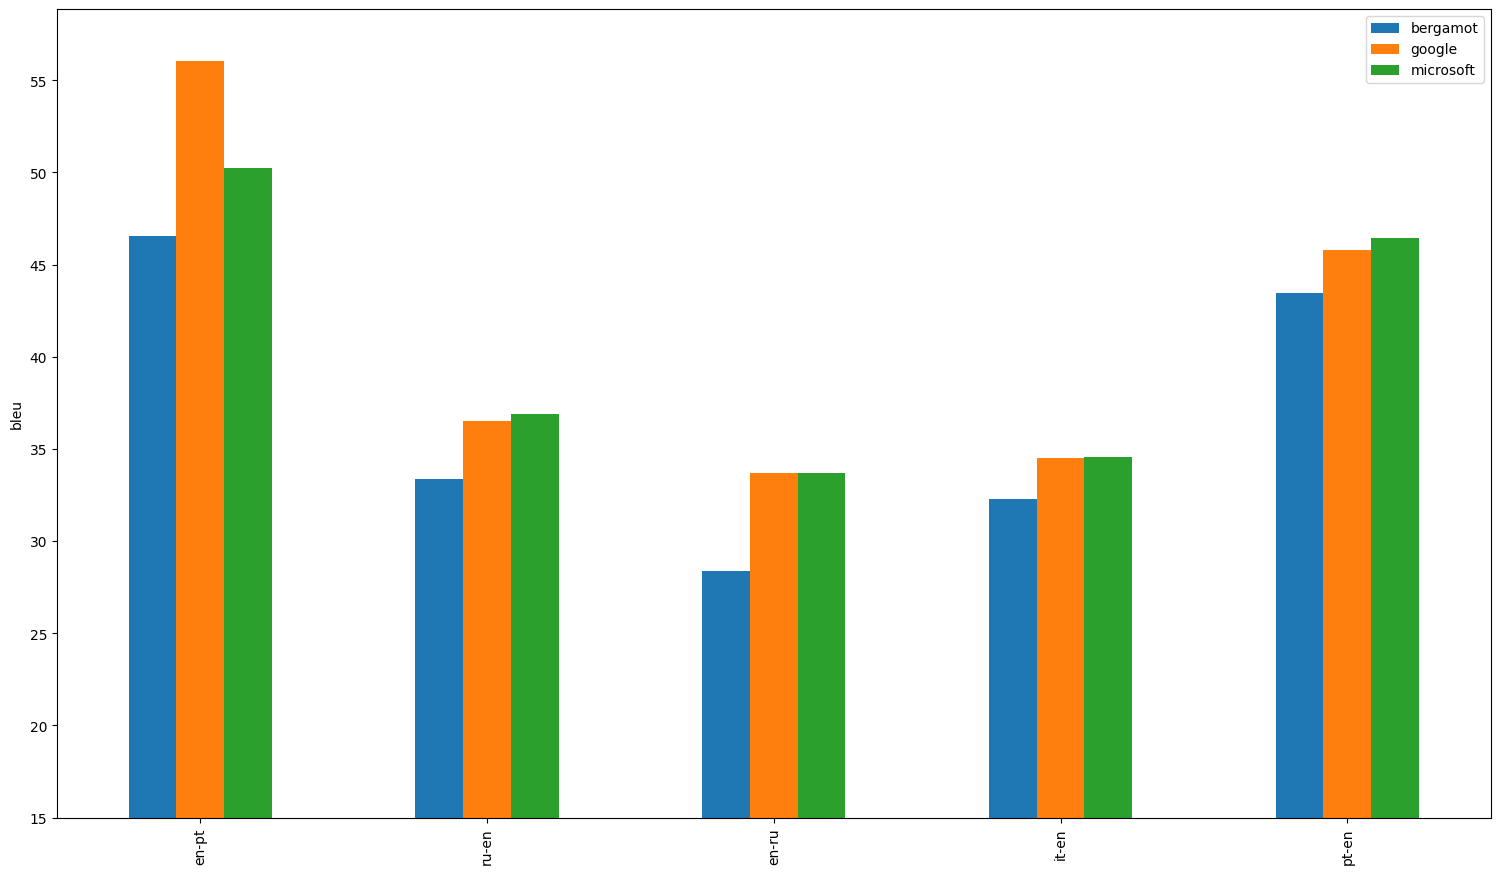
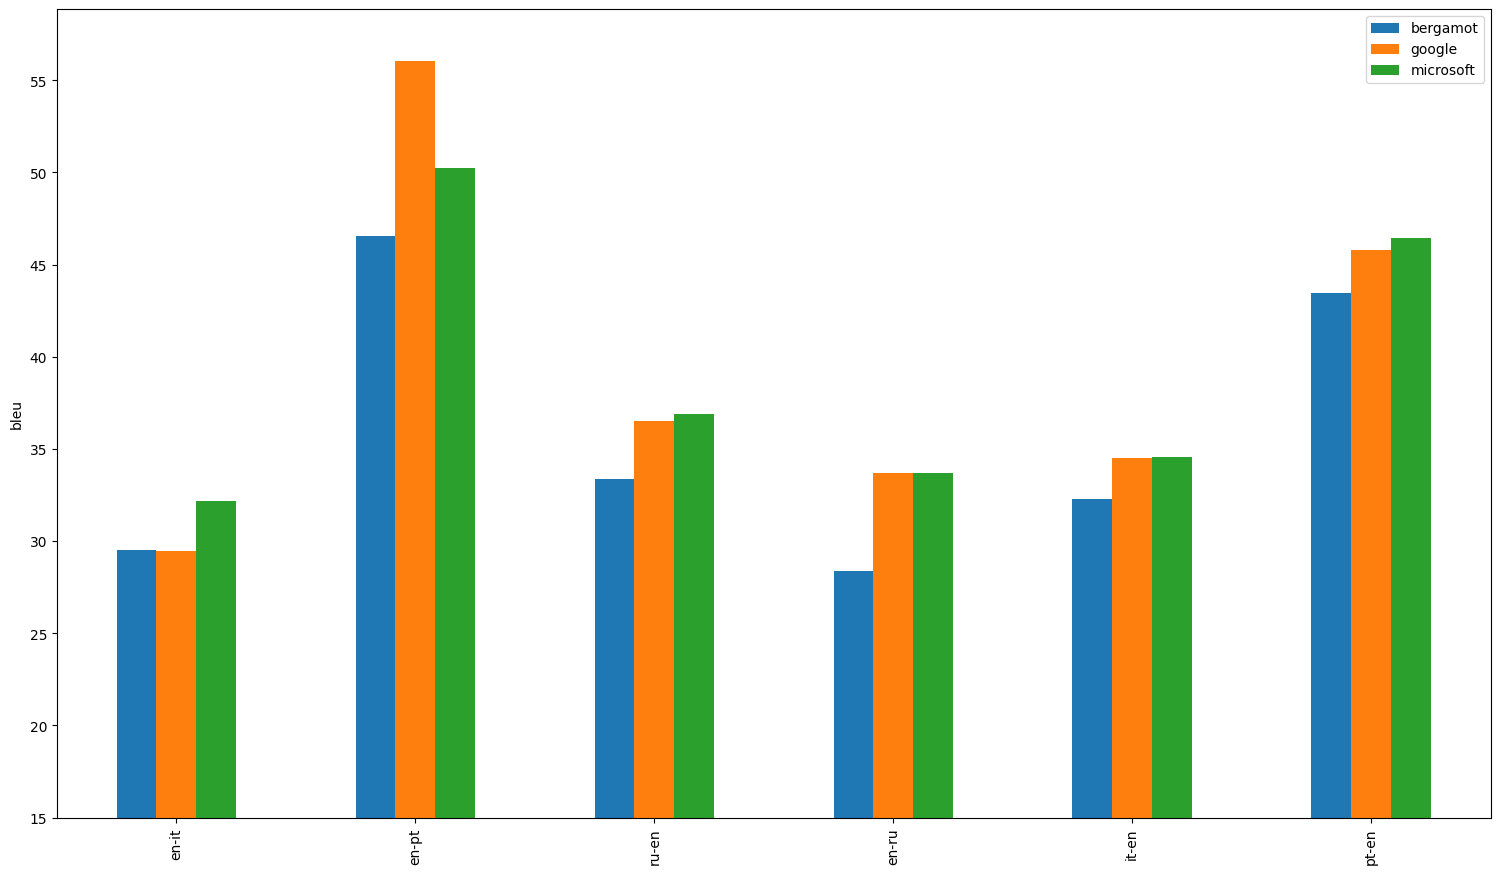
Update evaluation results [skip ci]

diff --git a/evaluation/dev/results.md b/evaluation/dev/results.md
@@ -57,13 +57,23 @@ Both absolute and relative differences in BLEU scores between Bergamot and other
 
 ## avg
 
-| Translator/Dataset | en-pt | ru-en | en-ru | it-en | pt-en |
-| --- | --- | --- | --- | --- | --- |
-| bergamot | 46.55 | 33.37 | 28.40 | 32.30 | 43.43 |
-| google | 56.05 (+9.50, +20.41%) | 36.53 (+3.15, +9.45%) | 33.72 (+5.32, +18.73%) | 34.50 (+2.20, +6.81%) | 45.77 (+2.33, +5.37%) |
-| microsoft | 50.25 (+3.70, +7.95%) | 36.87 (+3.50, +10.49%) | 33.68 (+5.28, +18.59%) | 34.55 (+2.25, +6.97%) | 46.43 (+3.00, +6.91%) |
+| Translator/Dataset | en-it | en-pt | ru-en | en-ru | it-en | pt-en |
+| --- | --- | --- | --- | --- | --- | --- |
+| bergamot | 29.53 | 46.55 | 33.37 | 28.40 | 32.30 | 43.43 |
+| google | 29.47 (-0.07, -0.23%) | 56.05 (+9.50, +20.41%) | 36.53 (+3.15, +9.45%) | 33.72 (+5.32, +18.73%) | 34.50 (+2.20, +6.81%) | 45.77 (+2.33, +5.37%) |
+| microsoft | 32.20 (+2.67, +9.03%) | 50.25 (+3.70, +7.95%) | 36.87 (+3.50, +10.49%) | 33.68 (+5.28, +18.59%) | 34.55 (+2.25, +6.97%) | 46.43 (+3.00, +6.91%) |
 
 ![Results](img/avg.png)
+
+## en-it
+
+| Translator/Dataset | flores-test | flores-dev | wmt09 |
+| --- | --- | --- | --- |
+| bergamot | 29.20 | 28.40 | 31.00 |
+| google | 30.10 (+0.90, +3.08%) | 29.00 (+0.60, +2.11%) | 29.30 (-1.70, -5.48%) |
+| microsoft | 32.00 (+2.80, +9.59%) | 31.00 (+2.60, +9.15%) | 33.60 (+2.60, +8.39%) |
+
+![Results](img/en-it.png)
 
 ## en-pt
 
